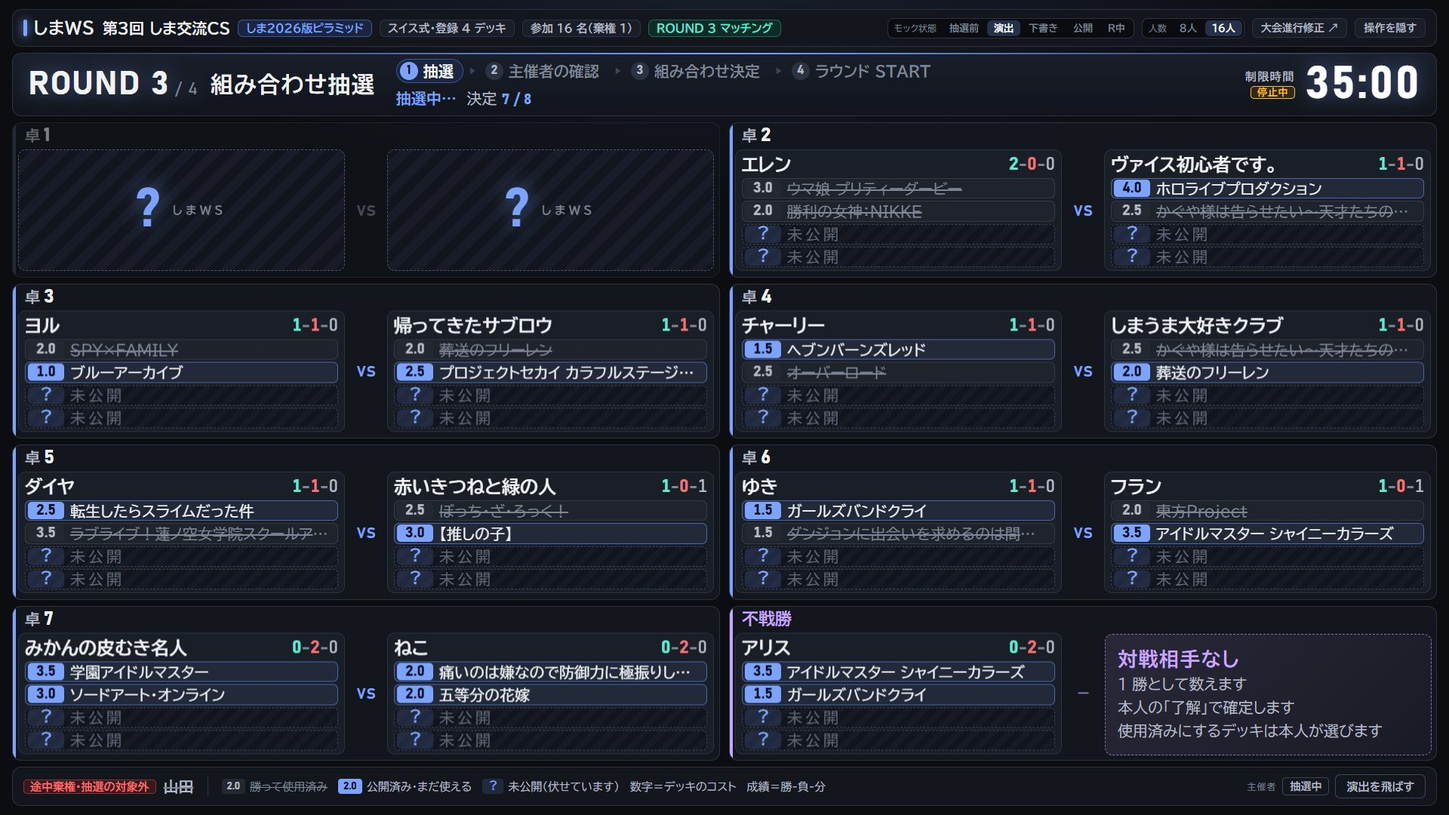
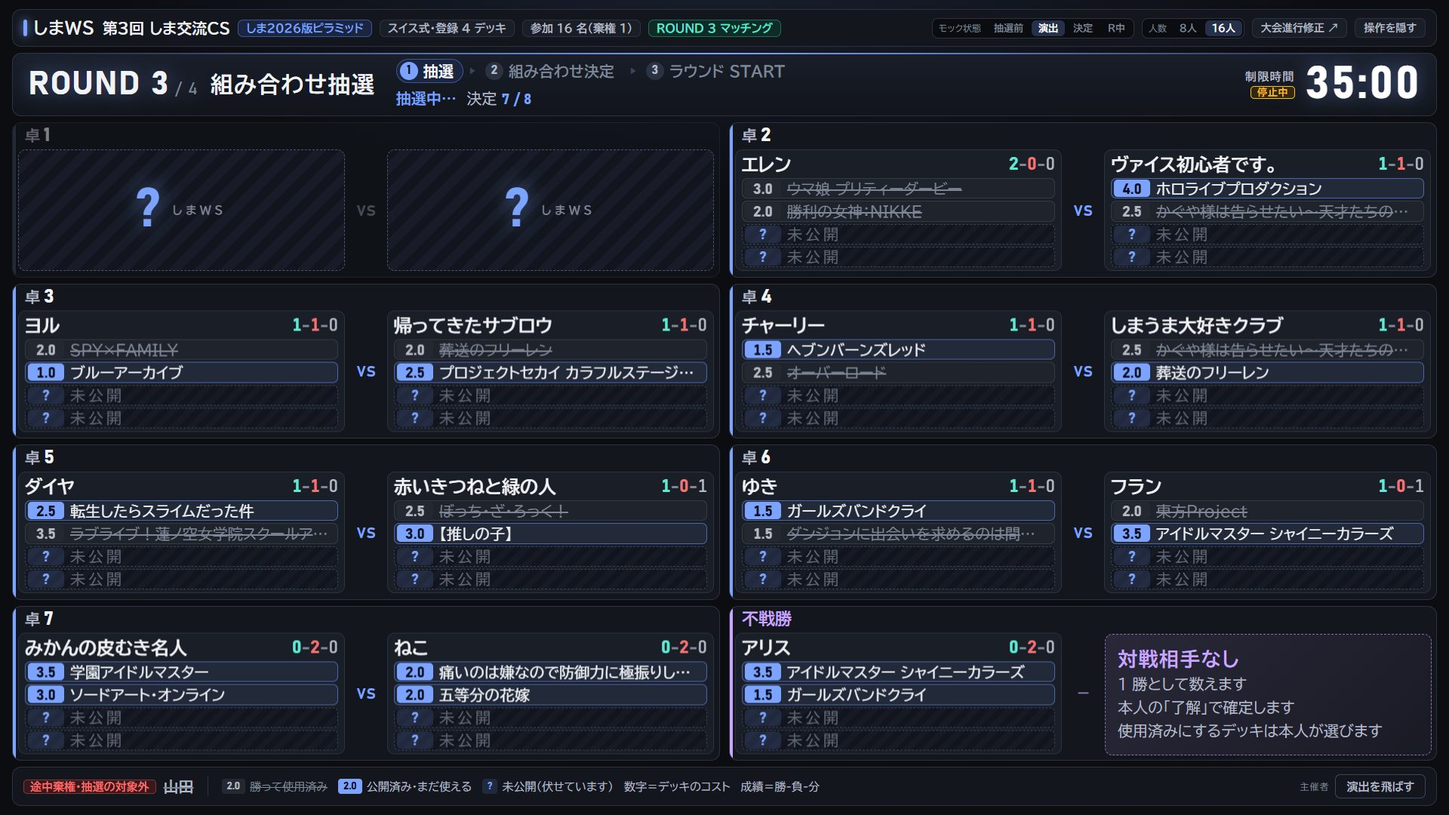
J案改良版を更新（下書きなし・修正・再戦表示）

diff --git a/r3/final/index.html b/r3/final/index.html
@@ -148,7 +148,10 @@ body.inround #round{display:grid;animation:fadein .35s both}
 .rec .w{color:var(--ok)} .rec .l{color:var(--danger)} .rec .o{color:var(--sub);font-weight:400}
 .dk{display:flex;align-items:center;gap:8px;min-width:0;min-height:0;padding:0 8px 0 3px;border-radius:7px;border:1px solid var(--edge2);
   background:#141925;font-size:var(--fdk);line-height:1.3}
-.dk .b{flex:none;width:var(--bw);height:calc(var(--fdk) + 3px);line-height:calc(var(--fdk) + 3px);text-align:center;border-radius:5px;
+/* コストの数字は、字の高さ（数字の上端〜下端）で上下中央にそろえる。行の中央＝タイトル名の取り消し線の高さ */
+.dk .b i{display:block;font-style:normal;line-height:1;text-box:trim-both cap alphabetic}
+@supports not (text-box:trim-both cap alphabetic){.dk .b i{padding-top:.12em}}
+.dk .b{flex:none;width:var(--bw);height:calc(var(--fdk) + 3px);display:flex;align-items:center;justify-content:center;border-radius:5px;
   font-family:var(--num);font-variant-numeric:tabular-nums;font-size:var(--fdk);font-weight:700;white-space:nowrap}
 .dk .t{flex:1}
 /* 8 人のときは行が高いので、タイトル名を 2 行まで折り返す */
@@ -192,9 +195,42 @@ body.inround #round{display:grid;animation:fadein .35s both}
 .legend i{font-style:normal;font-family:var(--num);font-size:14px;font-weight:700;padding:0 7px;border-radius:4px;line-height:20px}
 .legend s{color:var(--mute)}
 /* 組み合わせの状態（主催者の操作欄に 1 か所だけ） */
-.stt{font-size:14px;font-weight:700;line-height:22px;padding:0 9px;border-radius:5px;border:1px solid var(--edge2);color:var(--sub)}
-.stt.draft{color:var(--wait);border-color:var(--wait);border-style:dashed;background:var(--wait-bg)}
-.stt.pub{color:var(--ok);border-color:var(--ok);background:var(--ok-bg)}
+/* 再戦（過去に対戦した組み合わせ）になった卓 */
+.tb.re{border-color:var(--danger);background:linear-gradient(180deg,rgba(248,113,113,.13),var(--surface) 46px)}
+.tb.re::before,.tb.re.on::before{background:var(--danger)}
+.tb.re .vs{color:var(--danger)}
+.retag{font-size:20px;font-weight:700;line-height:26px;padding:0 12px;border-radius:6px;border:1px solid var(--danger);color:var(--danger);background:var(--danger-bg);letter-spacing:.1em}
+/* ---------- 組み合わせの修正（主催者用のパネル。会場の盤の上に重ねる） ---------- */
+#edit{position:absolute;inset:0;display:none;align-items:center;justify-content:center;background:rgba(3,5,9,.74);z-index:45}
+#edit.on{display:flex}
+.edbox{width:1240px;background:#161a23;border:1px solid var(--wait);border-radius:14px;padding:18px 24px 20px;box-shadow:0 20px 60px rgba(0,0,0,.6);
+  display:flex;flex-direction:column;gap:10px}
+.ed-h{display:flex;align-items:center;gap:16px;white-space:nowrap}
+.ed-h h3{font-size:28px;font-weight:700;line-height:1.3}
+.ed-help{font-size:20px;line-height:1.5;color:var(--sub);white-space:nowrap}
+.ed-help b{color:var(--wait)}
+.ed-list{display:grid;gap:6px}
+.ed-row{display:grid;grid-template-columns:104px minmax(0,1fr) 44px minmax(0,1fr) 150px;align-items:center;column-gap:10px;padding:5px 10px;
+  border:1px solid var(--edge);border-radius:9px;background:var(--card);white-space:nowrap}
+.ed-row.chg{border-color:var(--wait)}
+.ed-row.re{border-color:var(--danger);background:var(--danger-bg)}
+.ed-no{font-size:20px;font-weight:700;color:var(--sub);line-height:1}
+.ed-no b{font-family:var(--num);font-size:26px;color:var(--ink);margin-left:5px}
+.ed-row.bye .ed-no{color:var(--ack)}
+.ed-p{height:44px;min-width:0;display:flex;align-items:center;justify-content:space-between;gap:12px;padding:0 14px;border-radius:8px;border:1px solid var(--edge2);
+  background:#141925;font-size:22px;font-weight:700;cursor:pointer;white-space:nowrap}
+.ed-p:hover{border-color:var(--accent)}
+.ed-p.moved{border-color:var(--wait);color:var(--wait)}
+.ed-p.sel{border-color:var(--wait);background:var(--wait-bg);box-shadow:0 0 0 2px rgba(251,191,36,.5)}
+.ed-p .rec{font-size:20px;line-height:1}
+.ed-vs{font-family:var(--num);font-size:20px;font-weight:700;color:var(--mute);text-align:center}
+.ed-none{font-size:20px;color:var(--mute);padding-left:14px}
+.ed-flag{display:flex;gap:10px;justify-content:flex-end;font-size:20px;font-weight:700}
+.ed-flag .r,.ed-sum .r{color:var(--danger)} .ed-flag .c{color:var(--wait)}
+.ed-f{display:flex;align-items:center;justify-content:space-between;gap:12px;white-space:nowrap;margin-top:4px}
+.ed-sum{font-size:20px;color:var(--sub)}
+.ed-btns{display:flex;gap:8px}
+.ed-f .btn{height:40px;font-size:18px;padding:0 18px}
 .legend i.used{background:#242831;color:var(--sub)} .legend i.open{background:var(--accent);color:#0b1020} .legend i.secret{background:rgba(124,163,255,.14);color:var(--accent)}
 .f-r{display:flex;align-items:center;gap:8px;flex:none}
 
@@ -336,6 +372,7 @@ body.still .tile.pop .dk,body.still .tb.hit,body.still.inround #round{animation:
   </main>
 
   <div id="pop"><div class="popbox" id="popbox"></div></div>
+  <div id="edit"><div class="edbox box" id="edbox"></div></div>
   <div id="toast"></div>
 </div>
 <script>
@@ -350,13 +387,16 @@ const POOL=["アイドルマスター シャイニーカラーズ","痛いのは
   "転生したらスライムだった件","東方Project","ブルーアーカイブ","プロジェクトセカイ カラフルステージ！ feat. 初音ミク",
   "ヘブンバーンズレッド","ぼっち・ざ・ろっく！","ホロライブプロダクション","ラブライブ！蓮ノ空女学院スクールアイドルクラブ"];
 const COST=[3.5,2,3,2.5,3,2.5,3.5,1.5,2,2,2,2,2,3,1.5,2.5,2.5,2,1,2.5,1.5,2.5,4,3.5];
-const OFF=[0,7,13,20], ROUNDS=4, DONE=2;           /* 2 ラウンド終了 → ROUND 3 の抽選 */
-const STATES=["before","drawing","drafted","published","round"];
-const SLAB={before:"抽選前",drawing:"演出",drafted:"下書き",published:"公開",round:"R中"};
+const OFF=[0,7,13,20], ROUNDS=4;
+let DONE=2;                                        /* 終了したラウンド数。はじめは 2 ラウンド終了 → ROUND 3 の抽選 */
+/* 流れ: ラウンド中 →（ラウンド終了）→ 抽選前 → 抽選（演出）→ 組み合わせ決定 →（START）→ ラウンド中 */
+const STATES=["before","drawing","decided","round"];
+const SLAB={before:"抽選前",drawing:"演出",decided:"決定",round:"R中"};
 
 const qs=new URLSearchParams(location.search);
 let N=qs.get("players")==="16"?16:8;
-let ST=STATES.includes(qs.get("state"))?qs.get("state"):"before";
+const ST0=qs.get("state");
+let ST=(ST0==="drafted"||ST0==="published")?"decided":STATES.includes(ST0)?ST0:"before";   /* 旧 drafted／published は decided に寄せる */
 const SEED=parseInt(qs.get("seed")||"0",10)||0;
 const STOP=parseInt(qs.get("stop")||"0",10)||0;    /* 撮影用: この卓数がめくれたところで演出を止める */
 const REDUCED=qs.get("motion")==="0"||(qs.get("motion")!=="1"&&matchMedia("(prefers-reduced-motion: reduce)").matches);
@@ -413,6 +453,8 @@ function preset(n){
   C=calc();
 }
 const cur=()=>T.rounds[DONE]||null;
+/* 終了したラウンドですでに対戦した 2 人か（再戦の判定） */
+const metBefore=(a,b)=>T.rounds.slice(0,DONE).some(R=>R.matches.some(m=>(m.a===a&&m.b===b)||(m.a===b&&m.b===a)));
 const activeIds=()=>T.players.filter(p=>!isDropped(p,DONE)).map(p=>p.id);
 const droppedPs=()=>T.players.filter(p=>isDropped(p,DONE));
 function newDraft(){
@@ -445,7 +487,7 @@ const setPos=(el,p)=>{el.style.transform=`translate(${p.x}px,${p.y}px)`};
 function dkHtml(d,ds,j){
   /* 札の左の数字はデッキのコスト。状態は色で分ける（取り消し線＝使用済／青＝使用可／斜線＝未公開）。未公開はコストも伏せる */
   const sec=ds.st==="secret";
-  return`<span class="dk ${ds.st}" style="--i:${j}"><span class="b">${sec?"？":d.base.toFixed(1)}</span><span class="t ell">${sec?"未公開":esc(d.title)}</span></span>`;
+  return`<span class="dk ${ds.st}" style="--i:${j}"><span class="b"><i>${sec?"?":d.base.toFixed(1)}</i></span><span class="t ell">${sec?"未公開":esc(d.title)}</span></span>`;
 }
 const recHtml=x=>`<span class="rec num" title="勝-負-分"><b class="w">${x.w}</b>-<b class="l">${x.l}</b>-<b class="o">${x.d}</b></span>`;
 function buildTiles(){
@@ -470,9 +512,9 @@ function buildTiles(){
 /* 卓の枠。cls: ghost＝まだめくっていない／on＝組み合わせが出た。下書きか公開済みかは卓には出さない（主催者の操作欄に 1 か所だけ） */
 function buildFrames(cls){
   const cards=cardList();
-  $("#frames").innerHTML=cards.map((c,ci)=>{const p=G.cardPos(ci),vx=G.PX+G.tw;
-    return`<div class="tb box ${cls}${c.bye?" bye":""}" style="left:${p.x}px;top:${p.y}px;width:${G.cw}px;height:${G.ch}px">
-      <div class="hd" style="height:${G.HD}px">${c.bye?`<span class="no">不戦勝</span>`:`<span class="no">卓<b>${c.i+1}</b></span>`}</div>
+  $("#frames").innerHTML=cards.map((c,ci)=>{const p=G.cardPos(ci),vx=G.PX+G.tw,re=cls==="on"&&!c.bye&&metBefore(c.ids[0],c.ids[1]);
+    return`<div class="tb box ${cls}${c.bye?" bye":""}${re?" re":""}" style="left:${p.x}px;top:${p.y}px;width:${G.cw}px;height:${G.ch}px">
+      <div class="hd" style="height:${G.HD}px">${c.bye?`<span class="no">不戦勝</span>`:`<span class="no">卓<b>${c.i+1}</b></span>`}${re?`<span class="retag">再戦</span>`:""}</div>
       <span class="vs" style="left:${vx}px;top:${G.top}px;width:${G.VSW}px;height:${G.th}px">${c.bye?"－":"VS"}</span>
       ${c.bye?`<div class="byeinfo box" style="left:${vx+G.VSW}px;top:${G.top}px;width:${G.tw}px;height:${G.th}px"><h4>対戦相手なし</h4><p>1 勝として数えます</p><p>本人の「了解」で確定します</p><p>使用済みにするデッキは本人が選びます</p></div>`:""}
     </div>`}).join("");
@@ -488,7 +530,7 @@ function cancelAnim(){timers.forEach(clearTimeout);timers=[]}
 let revealed=0;
 /* 演出なしで、いまの段階の絵をそのまま出す */
 function show(){
-  cancelAnim();board.classList.add("noanim");board.dataset.phase=phase==="round"?"published":phase;
+  cancelAnim();board.classList.add("noanim");board.dataset.phase=phase==="round"?"decided":phase;
   const act=activeIds();
   act.forEach(id=>{const t=tiles[id];t.classList.remove("down","pop","pre");t.style.zIndex="";t.querySelector(".flip").style.transitionDelay=""});
   if(phase==="before"){$("#frames").innerHTML="";frameEls=[];act.forEach((id,i)=>setPos(tiles[id],G.pre(i)))}
@@ -501,7 +543,7 @@ function show(){
 function draw(){
   cancelAnim();
   const seed=newDraft();
-  if(REDUCED){phase="drafted";show();toast("組み合わせを抽選しました");return}
+  if(REDUCED){phase="decided";show();toast(`ROUND ${DONE+1} の組み合わせが決定しました`);return}
   phase="drawing";revealed=0;board.dataset.phase="drawing";
   const cards=buildFrames("ghost"),act=activeIds(),rnd=rng(seed^0x9e3779b9);
   window.__t0=performance.now();
@@ -525,7 +567,7 @@ function draw(){
     later(at+620,()=>{setFrame(frameEls[ci],"on");frameEls[ci].classList.add("hit");revealed++;ui();if(STOP&&revealed===STOP)cancelAnim()});
     t+=REV;
   });
-  later(t+150,()=>{phase="drafted";board.dataset.phase="drafted";ui()});
+  later(t+150,()=>{phase="decided";board.dataset.phase="decided";ui()});
 }
 /* 札をめくる。表が見えはじめる頃（半回転）にデッキ 4 個を順に出す */
 function flipUp(id){const t=tiles[id];t.style.zIndex="";t.classList.add("pre");t.classList.remove("down");
@@ -537,26 +579,22 @@ function ui(){
   $("#chipN").textContent=`参加 ${T.n} 名`+(dp.length?`（棄権 ${dp.length}）`:"");
   $("#chipR").textContent=phase==="round"?`ROUND ${DONE+1} / ${ROUNDS}`:`ROUND ${DONE+1} マッチング`;
   $("#hR").innerHTML=`ROUND ${DONE+1}<small> / ${ROUNDS}</small>`;
-  const stepNo={before:0,drawing:0,drafted:1,published:3,round:4}[phase];
-  $("#steps").innerHTML=["抽選","主催者の確認","組み合わせ決定","ラウンド START"].map((s,i)=>
+  const stepNo={before:0,drawing:0,decided:2,round:3}[phase];
+  $("#steps").innerHTML=["抽選","組み合わせ決定","ラウンド START"].map((s,i)=>
     `${i?'<span class="ar">▶</span>':""}<span class="st${i<stepNo?" done":i===stepNo?" on":""}"><b>${i<stepNo?"✓":i+1}</b>${s}</span>`).join("");
   const m=$("#msg");
-  m.className="msg "+({drawing:"draw",drafted:"draft",published:"pub"}[phase]||"");
+  m.className="msg "+({drawing:"draw",decided:"pub"}[phase]||"");
   m.innerHTML=phase==="before"?`<b>抽選前</b>　｜　${cards} 卓ぶんの組み合わせを、これから抽選します`:
     phase==="drawing"?`<b>抽選中…</b>　決定 <b class="num">${revealed} / ${cards}</b>`:
-    phase==="drafted"?`<b>抽選結果</b>　｜　主催者が確認しています。決定までお待ちください`:
     `<b>組み合わせ決定！</b>　自分の卓へ移動してください　｜　START でラウンド開始`;
   $("#footL").innerHTML=(dp.length?`<span class="drop"><span class="tag out">途中棄権・抽選の対象外</span>${dp.map(p=>`<span class="nm">${esc(p.name)}</span>`).join("")}</span><i class="sep"></i>`:"")+
-    `<span class="legend"><span><i class="used">2.0</i><s>勝って使用済み</s></span><span><i class="open">2.0</i>公開済み・まだ使える</span><span><i class="secret">？</i>未公開（伏せています）</span><span>数字＝デッキのコスト</span><span>成績＝勝-負-分</span></span>`;
+    `<span class="legend"><span><i class="used">2.0</i><s>勝って使用済み</s></span><span><i class="open">2.0</i>公開済み・まだ使える</span><span><i class="secret">?</i>未公開（伏せています）</span><span>数字＝デッキのコスト</span><span>成績＝勝-負-分</span></span>`;
   if(armed)disarm();
-  /* 組み合わせの状態は、ここ（主催者の操作欄）に 1 か所だけ出す */
-  const stt=phase==="before"?`<span class="stt" id="stt">抽選前</span>`:phase==="drawing"?`<span class="stt" id="stt">抽選中</span>`:
-    phase==="drafted"?`<span class="stt draft" id="stt">下書き・参加者の端末には未公開</span>`:`<span class="stt pub" id="stt">参加者の端末に公開済み</span>`;
-  $("#footR").innerHTML=`<span class="who">主催者</span>`+stt+(
+  /* 下書きの段階はない。抽選が終わるとそのまま決定で、直すときは「組み合わせを修正」（主催者用のパネル）を使う */
+  $("#footR").innerHTML=`<span class="who">主催者</span>`+(
     phase==="before"?`<button class="btn pri" data-act="draw">抽選する</button>`:
     phase==="drawing"?`<button class="btn" data-act="skip">演出を飛ばす</button>`:
-    phase==="drafted"?`<button class="btn" data-act="draw">再抽選</button><button class="btn pri" data-act="publish" data-arm="1">決定して公開</button>`:
-    `<button class="btn pri" data-act="start">ラウンド START</button>`);
+    `<button class="btn" data-act="edit">組み合わせを修正</button><button class="btn pri" data-act="start">ラウンド START</button>`);
   document.body.classList.toggle("inround",phase==="round");
   document.querySelectorAll("#segS button").forEach(b=>b.classList.toggle("on",b.dataset.v===phase));
   document.querySelectorAll("#segN button").forEach(b=>b.classList.toggle("on",+b.dataset.v===N));
@@ -595,7 +633,7 @@ function renderRound(){
     <div class="tgrid ${cmp?"cmp":"big"}" style="grid-template-rows:repeat(${k},minmax(0,1fr))">
       ${R.matches.map((m,i)=>`<div class="tc box playing" data-pop="t:${i}"><div class="sd"><span class="no">卓<b>${i+1}</b></span><span class="pill playing">対戦中</span></div><div class="bd">${row(P[m.a])}${row(P[m.b])}</div></div>`).join("")}
       ${R.bye?`<div class="tc box ack" data-pop="p:${R.bye.p}"><div class="sd"><span class="no">不戦勝</span><span class="pill ack">了解待ち</span></div><div class="bd"><span class="pn"><i class="dot"></i><span class="nm ell">${esc(P[R.bye.p].name)}</span></span><span class="it ack">不戦勝</span><span class="tnote ell">本人の了解で確定（使用済みにするデッキを選択）</span></div></div>`:""}</div>
-    <div class="strip org"><span class="who">主催者</span><button class="btn" disabled>ラウンド終了</button><span class="hint">全卓の確定後に押せます（残り ${k} 卓）</span></div></div>`;
+    <div class="strip org"><span class="who">主催者</span><button class="btn" data-act="endround" data-arm="1">ラウンド終了</button><span class="hint">${DONE+1<ROUNDS?"押すと次のラウンドの抽選前へ":"最終ラウンドです"}</span></div></div>`;
   let rank=0;
   $("#rRight").innerHTML=`<div class="ph"><h2>順位表<small>ROUND ${DONE} 終了時点　｜　並び: 勝ち数 → 勝率 → 合計コスト(低) → OMW%　｜　簡易表示（本番は I 案の形）</small></h2></div>
     <div class="rh"><span>順位</span><span>参加者</span><span>勝-負-分</span><span>登録デッキ 1</span><span>2</span><span>3</span><span>4</span></div>
@@ -625,16 +663,73 @@ function toast(s){const t=$("#toast");t.textContent=s;t.classList.add("on");clea
 function act(a){
   if(a==="close")return closePop();
   if(a==="draw")return draw();
-  if(a==="skip"){phase="drafted";show();return}
-  if(a==="publish"){setStatus("playing");phase="published";show();
-    if(!REDUCED)frameEls.forEach((f,i)=>{f.style.animationDelay=(i*45)+"ms";f.classList.add("hit")});
-    toast(`ROUND ${DONE+1} の組み合わせが決定しました`);return}
+  if(a==="skip"){phase="decided";show();return}
   if(a==="start"){phase="round";tmSet(2100,2100,true);renderRound();ui();return}
+  if(a==="endround")return endRound();
+  if(a==="edit")return openEdit();
+  if(a==="ed-close")return closeEdit();
+  if(a==="ed-reset"){ED.slots=ED.base.map(x=>x.slice());ED.sel=null;return renderEdit()}
+  if(a==="ed-apply")return applyEdit();
 }
+/* ラウンド終了: いまのラウンドを確定して、次のラウンドの抽選前へ（モックでは未報告の卓を仮の結果で確定する） */
+function endRound(){
+  if(DONE+1>=ROUNDS){toast("最終ラウンドです（モックの通しはここまで）");return}
+  setStatus("done");DONE++;C=calc();
+  phase="before";document.body.classList.remove("inround");   /* 盤の寸法を測るので、先にマッチング画面へ戻す */
+  buildTiles();tmSet(2100,2100,false);show();
+  toast(`ROUND ${DONE} を終了しました。ROUND ${DONE+1} の抽選前です`);
+}
+
+/* ===== 組み合わせの修正（主催者用のパネル） ===== */
+let ED=null;   /* 作業用の並び。slots[卓] = [左, 右]（最後が不戦勝なら [本人]）。適用するまで会場の盤は変えない */
+const curSlots=()=>cardList().map(c=>c.ids.slice());
+function openEdit(){if(phase!=="decided")return;ED={slots:curSlots(),base:curSlots(),sel:null};renderEdit();$("#edit").classList.add("on")}
+function closeEdit(){$("#edit").classList.remove("on");ED=null}
+function renderEdit(){
+  const cards=cardList(),P=T.players;let nre=0,nch=0;
+  const btn=(id,ci,s)=>`<button class="ed-p${ED.sel===id?" sel":""}${ED.base[ci][s]!==id?" moved":""}" data-ed="${id}"><span>${esc(P[id].name)}</span>${recHtml(C.s[id])}</button>`;
+  const rows=ED.slots.map((ids,ci)=>{const bye=cards[ci].bye,re=!bye&&metBefore(ids[0],ids[1]),ch=ids.some((id,s)=>ED.base[ci][s]!==id);
+    if(re)nre++;if(ch)nch++;
+    return`<div class="ed-row${bye?" bye":""}${ch?" chg":""}${re?" re":""}"><span class="ed-no">${bye?"不戦勝":`卓<b>${ci+1}</b>`}</span>${btn(ids[0],ci,0)}<span class="ed-vs">${bye?"":"VS"}</span>`+
+      (bye?`<span class="ed-none">対戦相手なし</span>`:btn(ids[1],ci,1))+`<span class="ed-flag">${re?`<span class="r">再戦</span>`:""}${ch?`<span class="c">変更</span>`:""}</span></div>`}).join("");
+  const hasBye=cards.some(c=>c.bye);
+  $("#edbox").innerHTML=`<div class="ed-h"><h3>ROUND ${DONE+1}　組み合わせを修正</h3><span class="tag">主催者用・「適用」を押すまで会場の盤は変わりません</span></div>
+    <p class="ed-help">${ED.sel===null?`入れ替える 2 人を順に押します。${hasBye?"不戦勝の人と入れ替えると、不戦勝の人が替わります。":""}`:
+      `<b>${esc(P[ED.sel].name)}</b> と入れ替える人を押してください（同じ人をもう一度押すと選び直せます）`}</p>
+    <div class="ed-list">${rows}</div>
+    <div class="ed-f"><span class="ed-sum">変更 <b class="num">${nch}</b> 卓　｜　${nre?`<b class="r">再戦が ${nre} 卓あります（このまま適用もできます）</b>`:"再戦なし"}</span>
+      <span class="ed-btns"><button class="btn" data-act="ed-reset"${nch?"":" disabled"}>元に戻す</button><button class="btn" data-act="ed-close">やめる（Esc）</button><button class="btn pri" data-act="ed-apply"${nch?"":" disabled"}>この組み合わせを適用</button></span></div>`;
+}
+function edPick(id){
+  if(ED.sel===null)ED.sel=id;
+  else if(ED.sel===id)ED.sel=null;
+  else{const at=v=>{for(let c=0;c<ED.slots.length;c++){const s=ED.slots[c].indexOf(v);if(s>=0)return[c,s]}};
+    const[c1,s1]=at(ED.sel),[c2,s2]=at(id);ED.slots[c1][s1]=id;ED.slots[c2][s2]=ED.sel;ED.sel=null}
+  renderEdit();
+}
+/* 適用: 会場の盤にすぐ反映する（札は新しい席へ動き、変わった卓だけ軽く光る） */
+function applyEdit(){
+  const R=cur(),cards=cardList(),changed=[];
+  ED.slots.forEach((ids,ci)=>{if(ids.some((id,s)=>ED.base[ci][s]!==id))changed.push(ci);
+    if(cards[ci].bye)R.bye.p=ids[0];else{R.matches[ci].a=ids[0];R.matches[ci].b=ids[1]}});
+  closeEdit();
+  const cs=buildFrames("on");cs.forEach((c,ci)=>c.ids.forEach((id,s)=>setPos(tiles[id],G.slot(ci,s))));
+  if(!REDUCED)changed.forEach(ci=>frameEls[ci].classList.add("hit"));
+  ui();toast(`組み合わせを修正しました（${changed.length} 卓）`);
+}
+/* サンプル用: 入れ替えると再戦が 1 卓だけできる 2 人を探す（README と撮影で使う） */
+window.__rematchHint=()=>{const cs=cardList(),P=T.players,lab=c=>c.bye?"不戦勝":"卓 "+(c.i+1);let alt=null;
+  for(let xi=0;xi<cs.length;xi++)for(let yi=xi+1;yi<cs.length;yi++)for(let i=cs[xi].ids.length-1;i>=0;i--)for(let j=cs[yi].ids.length-1;j>=0;j--){
+    const sl=cs.map(c=>c.ids.slice()),a=sl[xi][i],b=sl[yi][j];sl[xi][i]=b;sl[yi][j]=a;      /* a と b を入れ替えた並び */
+    const re=sl.filter(s=>s.length===2&&metBefore(s[0],s[1]));if(!re.length)continue;
+    const h={a,b,names:[P[a].name,P[b].name],tables:[lab(cs[xi]),lab(cs[yi])],count:re.length,rematch:re.map(s=>P[s[0]].name+" × "+P[s[1]].name)};
+    if(re.length===1)return h;alt=alt||h}
+  return alt};
 function setStatus(s){const R=cur();R.matches.forEach(m=>m.status=s);if(R.bye)R.bye.status=s==="playing"?"ack":s}
 let armed=null;
 function disarm(){if(!armed)return;clearTimeout(armed._t);armed.textContent=armed.dataset.label;armed.classList.remove("armed");armed=null}
 document.addEventListener("click",e=>{
+  const d=e.target.closest("[data-ed]");if(d&&ED)return edPick(+d.dataset.ed);
   const b=e.target.closest("[data-act]");
   if(b){if(b.disabled)return;
     if(b.dataset.arm&&armed!==b){if(armed)disarm();armed=b;b.dataset.label=b.textContent;b.textContent="もう一度押して確定";b.classList.add("armed");b._t=setTimeout(disarm,3500);return}
@@ -647,7 +742,7 @@ document.addEventListener("click",e=>{
   const p=e.target.closest("[data-pop]");if(p)openPop(p.dataset.pop);
 });
 document.addEventListener("keydown",e=>{
-  if(e.key==="Escape")closePop();
+  if(e.key==="Escape"){closePop();if(ED)closeEdit()}
   if(e.target.id==="tm"){if(e.key==="Enter"){e.target.blur();tmToggle()}return}
   if(e.key==="h"||e.key==="H")toggleOrg();
 });
@@ -656,9 +751,11 @@ $("#bHide").onclick=toggleOrg;
 $("#bFix").onclick=e=>{e.preventDefault();toast("「大会進行修正」タブを開きます（モックでは移動しません）")};
 
 function load(){
-  cancelAnim();closePop();drawNo=0;preset(N);buildTiles();
+  cancelAnim();closePop();if(ED)closeEdit();drawNo=0;DONE=2;
+  document.body.classList.remove("inround");                   /* 盤の寸法を測るので、先にマッチング画面を出す */
+  preset(N);buildTiles();
   phase=ST==="drawing"?"before":ST;
-  if(phase!=="before"){newDraft();if(phase!=="drafted")setStatus("playing")}
+  if(phase!=="before")newDraft();
   tmSet(2100,2100,phase==="round");
   if(phase==="round")renderRound();
   show();
@@ -692,7 +789,8 @@ window.__check=function(loose){
     if(loose&&inTile&&!e.classList.contains("ell"))return;
     const isEll=e.classList.contains("ell");
     if(ow>1||(isEll&&oh>1)){ if(isEll){ if(e.title===e.textContent&&e.closest("[data-pop]"))out.ell.push(txt(e));else out.bad.push("ellipsis without full text: "+name(e)) } else out.bad.push(`overflow-x ${ow}px: ${name(e)} "${txt(e)}"`)}
-    if(oh>1&&!isEll)out.bad.push(`overflow-y ${oh}px: ${name(e)} "${txt(e)}"`);
+    /* コストの数字（.dk .b i）は text-box で字の高さに切りそろえた箱なので、行の余白ぶん scrollHeight が大きく出る。外側の札（.dk .b）で見る */
+    if(oh>1&&!isEll&&!e.matches(".dk .b i"))out.bad.push(`overflow-y ${oh}px: ${name(e)} "${txt(e)}"`);
     if(loose&&(inTile||e.classList.contains("tile")))return;
     const r=e.getBoundingClientRect(),box=e.parentElement.closest(".box,.panel,.top,#stage"),br=box.getBoundingClientRect(),t=0.6;
     if(r.width&&r.height&&(r.left<br.left-t||r.right>br.right+t||r.top<br.top-t||r.bottom>br.bottom+t))out.bad.push(`outside ${name(box)}: ${name(e)} "${txt(e)}"`);
@@ -703,7 +801,7 @@ window.__check=function(loose){
     for(let i=0;i<rs.length;i++)for(let j=i+1;j<rs.length;j++){const a=rs[i][1],b=rs[j][1];
       if(a.left<b.right-1&&b.left<a.right-1&&a.top<b.bottom-1&&b.top<a.bottom-1)out.bad.push(`overlap: ${name(rs[i][0])} "${txt(rs[i][0])}" × ${name(rs[j][0])} "${txt(rs[j][0])}"`)}
   }
-  stage.querySelectorAll(".tile .nm,.tile .rec,.dk,.dk .t,.dk .b,.hd .no,.tb .vs,.pill,.byeinfo h4,.byeinfo p,#note li,.drop,.drop .nm,.msg,.steps .st,#pre span,.tc .nm,.tc .no,.tc .it,.rr>span,.rr .nm,.cnt").forEach(e=>{
+  stage.querySelectorAll(".tile .nm,.tile .rec,.dk,.dk .t,.dk .b,.dk .b i,.hd .no,.retag,.tb .vs,.pill,.byeinfo h4,.ed-p,.ed-p .rec,.ed-no,.ed-vs,.ed-none,.ed-flag,.ed-help,.ed-sum,.byeinfo p,#note li,.drop,.drop .nm,.msg,.steps .st,#pre span,.tc .nm,.tc .no,.tc .it,.rr>span,.rr .nm,.cnt").forEach(e=>{
     if(!e.offsetParent)return;const f=parseFloat(getComputedStyle(e).fontSize);if(f<20)out.small.push(name(e)+" "+f+"px")});
   return out;
 };

diff --git a/r3/index.html b/r3/index.html
@@ -1,1 +1,1 @@
-<!doctype html><html lang="ja"><head><meta charset="utf-8"><meta name="robots" content="noindex,nofollow,noarchive"><meta name="viewport" content="width=device-width,initial-scale=1"><title>大会ダッシュボード 第3回</title><style>body{font:15px/1.6 system-ui,sans-serif;background:#16181d;color:#e7e9ee;margin:0;padding:20px}h1{font-size:22px;margin:0 0 6px}h2{font-size:20px;margin:26px 0 4px;border-top:1px solid #333;padding-top:14px}h3{font-size:16px;margin:14px 0 4px}nav{position:sticky;top:0;background:#16181dee;padding:8px 0;z-index:9}nav button{background:#2b3140;color:#e7e9ee;border:1px solid #445;border-radius:6px;padding:6px 12px;margin-right:6px;cursor:pointer}nav button.on{background:#4c7dff;border-color:#4c7dff}.m{color:#9aa3b5;font-size:13px}.g{display:grid;gap:8px}figure{margin:0}figure img{width:100%;border:1px solid #333;border-radius:4px;cursor:zoom-in}figcaption{font-size:13px;color:#9aa3b5}.na{border:1px dashed #444;border-radius:4px;padding:30px;text-align:center;color:#777}a{color:#8fb0ff}#lb{position:fixed;inset:0;background:#000d;display:none;align-items:center;justify-content:center;z-index:20}#lb img{max-width:98vw;max-height:96vh}</style></head><body><h1>大会ダッシュボード 第3回（統合見本＋マッチング演出）</h1><div class="m"><a href="../">第1回（A〜E）</a> ・ <a href="../r2/">第2回（F〜I）</a> ／ 画像はクリックで拡大。演出は「動く見本」で実際に動かして見てください。</div><nav><span class="m">人数: </span><button class="on" data-v="8">8人</button><button data-v="16">16人</button></nav><h2>統合見本（ラウンド中・事後コスト抽選・事後コスト発表）</h2><div class="m">決まった組み合わせ（ラウンド中＝H案の上部・タイマー・対戦卓＋I案の順位表／事後コスト抽選＝H案の見た目・スロット→上から順に確定する演出／事後コスト発表＝F案の配置にH案の色）を1つにまとめたもの。 <a href="integrated/index.html?state=round" target="_blank">動く見本: ラウンド中</a> ・ <a href="integrated/index.html?state=draw&players=16" target="_blank">事後コスト抽選（16人・演出あり）</a> ・ <a href="integrated/index.html?state=announce&players=16" target="_blank">事後コスト発表</a></div><div class="g" style="grid-template-columns:repeat(3,1fr)"><figure data-v="8"><img src="integrated/shot-round.jpg" loading="lazy" alt="ラウンド中・8人"><figcaption>ラウンド中・8人</figcaption></figure><figure data-v="16"><img src="integrated/shot16-round.jpg" loading="lazy" alt="ラウンド中・16人"><figcaption>ラウンド中・16人</figcaption></figure><figure data-v="8"><img src="integrated/shot-draw.jpg" loading="lazy" alt="事後コスト抽選（確定後）・8人"><figcaption>事後コスト抽選（確定後）・8人</figcaption></figure><figure data-v="16"><img src="integrated/shot16-draw.jpg" loading="lazy" alt="事後コスト抽選（確定後）・16人"><figcaption>事後コスト抽選（確定後）・16人</figcaption></figure><figure data-v="8"><img src="integrated/shot-announce.jpg" loading="lazy" alt="事後コスト発表・8人"><figcaption>事後コスト発表・8人</figcaption></figure><figure data-v="16"><img src="integrated/shot16-announce.jpg" loading="lazy" alt="事後コスト発表・16人"><figcaption>事後コスト発表・16人</figcaption></figure></div><h3>事後コスト抽選の演出（16人）</h3><div class="g" style="grid-template-columns:repeat(3,1fr)"><figure data-v="all"><img src="integrated/f1.jpg" loading="lazy" alt="回転中"><figcaption>回転中</figcaption></figure><figure data-v="all"><img src="integrated/f2.jpg" loading="lazy" alt="上から確定していく途中"><figcaption>上から確定していく途中</figcaption></figure><figure data-v="all"><img src="integrated/f3.jpg" loading="lazy" alt="全行確定"><figcaption>全行確定</figcaption></figure></div><h2>マッチング演出 J案の改良版（選定後）</h2><div class="m">J案の演出と色をもとに、L案の横並び・K案の卓番号の位置・L案のタイトル横のコストを取り入れ、「名前から卓を探す」欄と卓ごとの「下書き／公開」表示を外したもの。 <a href="final/index.html?players=16&state=before" target="_blank">動く見本（16人）</a> ・ <a href="final/index.html?players=8&state=before" target="_blank">動く見本（8人）</a></div><div class="g" style="grid-template-columns:repeat(3,1fr)"><figure data-v="8"><img src="final/shot-before.jpg" loading="lazy" alt="抽選前・8人"><figcaption>抽選前・8人</figcaption></figure><figure data-v="16"><img src="final/shot16-before.jpg" loading="lazy" alt="抽選前・16人"><figcaption>抽選前・16人</figcaption></figure><figure data-v="8"><img src="final/shot-drafted.jpg" loading="lazy" alt="抽選後（主催者の確認）・8人"><figcaption>抽選後（主催者の確認）・8人</figcaption></figure><figure data-v="16"><img src="final/shot16-drafted.jpg" loading="lazy" alt="抽選後（主催者の確認）・16人"><figcaption>抽選後（主催者の確認）・16人</figcaption></figure><figure data-v="8"><img src="final/shot-published.jpg" loading="lazy" alt="組み合わせ決定・8人"><figcaption>組み合わせ決定・8人</figcaption></figure><figure data-v="16"><img src="final/shot16-published.jpg" loading="lazy" alt="組み合わせ決定・16人"><figcaption>組み合わせ決定・16人</figcaption></figure><figure data-v="all"><img src="final/f1.jpg" loading="lazy" alt="演出中のコマ1（16人）"><figcaption>演出中のコマ1（16人）</figcaption></figure><figure data-v="all"><img src="final/f2.jpg" loading="lazy" alt="演出中のコマ2（16人）"><figcaption>演出中のコマ2（16人）</figcaption></figure><figure data-v="all"><img src="final/f3.jpg" loading="lazy" alt="演出中のコマ3（16人）"><figcaption>演出中のコマ3（16人）</figcaption></figure></div><h2>マッチング演出コンペ（J〜M）</h2><div class="m">順位表の代わりに、卓ごとの組み合わせを抽選する専用画面。名前・ここまでの成績・デッキの状態（使用済み・使用可・未公開）を見せ、START でラウンド中の画面へ移る。場面ごとに各案を横に並べています。</div><div class="m">動く見本: <a href="J/index.html?players=16&state=before" target="_blank">J案</a> ・ <a href="K/index.html?players=16&state=before" target="_blank">K案</a> ・ <a href="L/index.html?players=16&state=before" target="_blank">L案</a> ・ <a href="M/index.html?players=16&state=before" target="_blank">M案</a>（抽選ボタンから演出→再抽選→公開→START まで操作できます）</div><h3>抽選前</h3><div class="g" style="grid-template-columns:repeat(4,1fr)"><figure data-v="8"><img src="J/shot-before.jpg" loading="lazy" alt="J案"><figcaption>J案</figcaption></figure><figure data-v="16"><img src="J/shot16-before.jpg" loading="lazy" alt="J案"><figcaption>J案</figcaption></figure><figure data-v="8"><img src="K/shot-before.jpg" loading="lazy" alt="K案"><figcaption>K案</figcaption></figure><figure data-v="16"><img src="K/shot16-before.jpg" loading="lazy" alt="K案"><figcaption>K案</figcaption></figure><figure data-v="8"><img src="L/shot-before.jpg" loading="lazy" alt="L案"><figcaption>L案</figcaption></figure><figure data-v="16"><img src="L/shot16-before.jpg" loading="lazy" alt="L案"><figcaption>L案</figcaption></figure><figure data-v="8"><img src="M/shot-before.jpg" loading="lazy" alt="M案"><figcaption>M案</figcaption></figure><figure data-v="16"><img src="M/shot16-before.jpg" loading="lazy" alt="M案"><figcaption>M案</figcaption></figure></div><h3>下書き（抽選後）</h3><div class="g" style="grid-template-columns:repeat(4,1fr)"><figure data-v="8"><img src="J/shot-drafted.jpg" loading="lazy" alt="J案"><figcaption>J案</figcaption></figure><figure data-v="16"><img src="J/shot16-drafted.jpg" loading="lazy" alt="J案"><figcaption>J案</figcaption></figure><figure data-v="8"><img src="K/shot-drafted.jpg" loading="lazy" alt="K案"><figcaption>K案</figcaption></figure><figure data-v="16"><img src="K/shot16-drafted.jpg" loading="lazy" alt="K案"><figcaption>K案</figcaption></figure><figure data-v="8"><img src="L/shot-drafted.jpg" loading="lazy" alt="L案"><figcaption>L案</figcaption></figure><figure data-v="16"><img src="L/shot16-drafted.jpg" loading="lazy" alt="L案"><figcaption>L案</figcaption></figure><figure data-v="8"><img src="M/shot-drafted.jpg" loading="lazy" alt="M案"><figcaption>M案</figcaption></figure><figure data-v="16"><img src="M/shot16-drafted.jpg" loading="lazy" alt="M案"><figcaption>M案</figcaption></figure></div><h3>公開</h3><div class="g" style="grid-template-columns:repeat(4,1fr)"><figure data-v="8"><img src="J/shot-published.jpg" loading="lazy" alt="J案"><figcaption>J案</figcaption></figure><figure data-v="16"><img src="J/shot16-published.jpg" loading="lazy" alt="J案"><figcaption>J案</figcaption></figure><figure data-v="8"><img src="K/shot-published.jpg" loading="lazy" alt="K案"><figcaption>K案</figcaption></figure><figure data-v="16"><img src="K/shot16-published.jpg" loading="lazy" alt="K案"><figcaption>K案</figcaption></figure><figure data-v="8"><img src="L/shot-published.jpg" loading="lazy" alt="L案"><figcaption>L案</figcaption></figure><figure data-v="16"><img src="L/shot16-published.jpg" loading="lazy" alt="L案"><figcaption>L案</figcaption></figure><figure data-v="8"><img src="M/shot-published.jpg" loading="lazy" alt="M案"><figcaption>M案</figcaption></figure><figure data-v="16"><img src="M/shot16-published.jpg" loading="lazy" alt="M案"><figcaption>M案</figcaption></figure></div><h3>演出中のコマ（16人・左から各案、上から時間順）</h3><div class="g" style="grid-template-columns:repeat(4,1fr)"><figure data-v="all"><img src="J/f1.jpg" loading="lazy" alt="J案・コマ1"><figcaption>J案・コマ1</figcaption></figure><figure data-v="all"><img src="K/f1.jpg" loading="lazy" alt="K案・コマ1"><figcaption>K案・コマ1</figcaption></figure><figure data-v="all"><img src="L/f1.jpg" loading="lazy" alt="L案・コマ1"><figcaption>L案・コマ1</figcaption></figure><figure data-v="all"><img src="M/f1.jpg" loading="lazy" alt="M案・コマ1"><figcaption>M案・コマ1</figcaption></figure><figure data-v="all"><img src="J/f2.jpg" loading="lazy" alt="J案・コマ2"><figcaption>J案・コマ2</figcaption></figure><figure data-v="all"><img src="K/f2.jpg" loading="lazy" alt="K案・コマ2"><figcaption>K案・コマ2</figcaption></figure><figure data-v="all"><img src="L/f2.jpg" loading="lazy" alt="L案・コマ2"><figcaption>L案・コマ2</figcaption></figure><figure data-v="all"><img src="M/f2.jpg" loading="lazy" alt="M案・コマ2"><figcaption>M案・コマ2</figcaption></figure><figure data-v="all"><img src="J/f3.jpg" loading="lazy" alt="J案・コマ3"><figcaption>J案・コマ3</figcaption></figure><figure data-v="all"><img src="K/f3.jpg" loading="lazy" alt="K案・コマ3"><figcaption>K案・コマ3</figcaption></figure><figure data-v="all"><img src="L/f3.jpg" loading="lazy" alt="L案・コマ3"><figcaption>L案・コマ3</figcaption></figure><figure data-v="all"><img src="M/f3.jpg" loading="lazy" alt="M案・コマ3"><figcaption>M案・コマ3</figcaption></figure></div><div id="lb"><img alt=""></div><script>let v="8";function apply(){document.querySelectorAll("figure").forEach(f=>{f.style.display=(f.dataset.v==="all"||f.dataset.v===v)?"":"none"})}document.querySelectorAll("nav button").forEach(b=>b.onclick=()=>{document.querySelectorAll("nav button").forEach(x=>x.classList.remove("on"));b.classList.add("on");v=b.dataset.v;apply()});apply();const lb=document.getElementById("lb");lb.onclick=()=>lb.style.display="none";document.querySelectorAll("figure img").forEach(i=>i.onclick=()=>{lb.querySelector("img").src=i.src;lb.style.display="flex"});</script></body></html>
+<!doctype html><html lang="ja"><head><meta charset="utf-8"><meta name="robots" content="noindex,nofollow,noarchive"><meta name="viewport" content="width=device-width,initial-scale=1"><title>大会ダッシュボード 第3回</title><style>body{font:15px/1.6 system-ui,sans-serif;background:#16181d;color:#e7e9ee;margin:0;padding:20px}h1{font-size:22px;margin:0 0 6px}h2{font-size:20px;margin:26px 0 4px;border-top:1px solid #333;padding-top:14px}h3{font-size:16px;margin:14px 0 4px}nav{position:sticky;top:0;background:#16181dee;padding:8px 0;z-index:9}nav button{background:#2b3140;color:#e7e9ee;border:1px solid #445;border-radius:6px;padding:6px 12px;margin-right:6px;cursor:pointer}nav button.on{background:#4c7dff;border-color:#4c7dff}.m{color:#9aa3b5;font-size:13px}.g{display:grid;gap:8px}figure{margin:0}figure img{width:100%;border:1px solid #333;border-radius:4px;cursor:zoom-in}figcaption{font-size:13px;color:#9aa3b5}.na{border:1px dashed #444;border-radius:4px;padding:30px;text-align:center;color:#777}a{color:#8fb0ff}#lb{position:fixed;inset:0;background:#000d;display:none;align-items:center;justify-content:center;z-index:20}#lb img{max-width:98vw;max-height:96vh}</style></head><body><h1>大会ダッシュボード 第3回（統合見本＋マッチング演出）</h1><div class="m"><a href="../">第1回（A〜E）</a> ・ <a href="../r2/">第2回（F〜I）</a> ／ 画像はクリックで拡大。演出は「動く見本」で実際に動かして見てください。</div><nav><span class="m">人数: </span><button class="on" data-v="8">8人</button><button data-v="16">16人</button></nav><h2>統合見本（ラウンド中・事後コスト抽選・事後コスト発表）</h2><div class="m">決まった組み合わせ（ラウンド中＝H案の上部・タイマー・対戦卓＋I案の順位表／事後コスト抽選＝H案の見た目・スロット→上から順に確定する演出／事後コスト発表＝F案の配置にH案の色）を1つにまとめたもの。 <a href="integrated/index.html?state=round" target="_blank">動く見本: ラウンド中</a> ・ <a href="integrated/index.html?state=draw&players=16" target="_blank">事後コスト抽選（16人・演出あり）</a> ・ <a href="integrated/index.html?state=announce&players=16" target="_blank">事後コスト発表</a></div><div class="g" style="grid-template-columns:repeat(3,1fr)"><figure data-v="8"><img src="integrated/shot-round.jpg" loading="lazy" alt="ラウンド中・8人"><figcaption>ラウンド中・8人</figcaption></figure><figure data-v="16"><img src="integrated/shot16-round.jpg" loading="lazy" alt="ラウンド中・16人"><figcaption>ラウンド中・16人</figcaption></figure><figure data-v="8"><img src="integrated/shot-draw.jpg" loading="lazy" alt="事後コスト抽選（確定後）・8人"><figcaption>事後コスト抽選（確定後）・8人</figcaption></figure><figure data-v="16"><img src="integrated/shot16-draw.jpg" loading="lazy" alt="事後コスト抽選（確定後）・16人"><figcaption>事後コスト抽選（確定後）・16人</figcaption></figure><figure data-v="8"><img src="integrated/shot-announce.jpg" loading="lazy" alt="事後コスト発表・8人"><figcaption>事後コスト発表・8人</figcaption></figure><figure data-v="16"><img src="integrated/shot16-announce.jpg" loading="lazy" alt="事後コスト発表・16人"><figcaption>事後コスト発表・16人</figcaption></figure></div><h3>事後コスト抽選の演出（16人）</h3><div class="g" style="grid-template-columns:repeat(3,1fr)"><figure data-v="all"><img src="integrated/f1.jpg" loading="lazy" alt="回転中"><figcaption>回転中</figcaption></figure><figure data-v="all"><img src="integrated/f2.jpg" loading="lazy" alt="上から確定していく途中"><figcaption>上から確定していく途中</figcaption></figure><figure data-v="all"><img src="integrated/f3.jpg" loading="lazy" alt="全行確定"><figcaption>全行確定</figcaption></figure></div><h2>マッチング演出 J案の改良版（選定後）</h2><div class="m">J案の演出と色をもとに、L案の横並び・K案の卓番号の位置・L案のタイトル横のコストを取り入れ、「名前から卓を探す」欄と下書きの段階を外したもの。流れは ラウンド中→ラウンド終了→抽選前→抽選→組み合わせ決定（主催者が修正可・再戦は赤枠）→START。 <a href="final/index.html?players=16&state=round" target="_blank">動く見本（16人・ラウンド中から）</a> ・ <a href="final/index.html?players=8&state=before" target="_blank">動く見本（8人）</a></div><div class="g" style="grid-template-columns:repeat(3,1fr)"><figure data-v="8"><img src="final/shot-round.jpg" loading="lazy" alt="ラウンド中（ラウンド終了ボタン）・8人"><figcaption>ラウンド中（ラウンド終了ボタン）・8人</figcaption></figure><figure data-v="16"><img src="final/shot16-round.jpg" loading="lazy" alt="ラウンド中（ラウンド終了ボタン）・16人"><figcaption>ラウンド中（ラウンド終了ボタン）・16人</figcaption></figure><figure data-v="8"><img src="final/shot-before.jpg" loading="lazy" alt="抽選前・8人"><figcaption>抽選前・8人</figcaption></figure><figure data-v="16"><img src="final/shot16-before.jpg" loading="lazy" alt="抽選前・16人"><figcaption>抽選前・16人</figcaption></figure><figure data-v="8"><img src="final/shot-decided.jpg" loading="lazy" alt="組み合わせ決定・8人"><figcaption>組み合わせ決定・8人</figcaption></figure><figure data-v="16"><img src="final/shot16-decided.jpg" loading="lazy" alt="組み合わせ決定・16人"><figcaption>組み合わせ決定・16人</figcaption></figure><figure data-v="all"><img src="final/shot16-edit.jpg" loading="lazy" alt="組み合わせの修正（主催者用パネル）（16人）"><figcaption>組み合わせの修正（主催者用パネル）（16人）</figcaption></figure><figure data-v="all"><img src="final/shot16-rematch.jpg" loading="lazy" alt="修正で再戦になった卓は赤枠（16人）"><figcaption>修正で再戦になった卓は赤枠（16人）</figcaption></figure><figure data-v="all"><img src="final/f1.jpg" loading="lazy" alt="演出中のコマ1（16人）"><figcaption>演出中のコマ1（16人）</figcaption></figure><figure data-v="all"><img src="final/f2.jpg" loading="lazy" alt="演出中のコマ2（16人）"><figcaption>演出中のコマ2（16人）</figcaption></figure><figure data-v="all"><img src="final/f3.jpg" loading="lazy" alt="演出中のコマ3（16人）"><figcaption>演出中のコマ3（16人）</figcaption></figure></div><h2>マッチング演出コンペ（J〜M）</h2><div class="m">順位表の代わりに、卓ごとの組み合わせを抽選する専用画面。名前・ここまでの成績・デッキの状態（使用済み・使用可・未公開）を見せ、START でラウンド中の画面へ移る。場面ごとに各案を横に並べています。</div><div class="m">動く見本: <a href="J/index.html?players=16&state=before" target="_blank">J案</a> ・ <a href="K/index.html?players=16&state=before" target="_blank">K案</a> ・ <a href="L/index.html?players=16&state=before" target="_blank">L案</a> ・ <a href="M/index.html?players=16&state=before" target="_blank">M案</a>（抽選ボタンから演出→再抽選→公開→START まで操作できます）</div><h3>抽選前</h3><div class="g" style="grid-template-columns:repeat(4,1fr)"><figure data-v="8"><img src="J/shot-before.jpg" loading="lazy" alt="J案"><figcaption>J案</figcaption></figure><figure data-v="16"><img src="J/shot16-before.jpg" loading="lazy" alt="J案"><figcaption>J案</figcaption></figure><figure data-v="8"><img src="K/shot-before.jpg" loading="lazy" alt="K案"><figcaption>K案</figcaption></figure><figure data-v="16"><img src="K/shot16-before.jpg" loading="lazy" alt="K案"><figcaption>K案</figcaption></figure><figure data-v="8"><img src="L/shot-before.jpg" loading="lazy" alt="L案"><figcaption>L案</figcaption></figure><figure data-v="16"><img src="L/shot16-before.jpg" loading="lazy" alt="L案"><figcaption>L案</figcaption></figure><figure data-v="8"><img src="M/shot-before.jpg" loading="lazy" alt="M案"><figcaption>M案</figcaption></figure><figure data-v="16"><img src="M/shot16-before.jpg" loading="lazy" alt="M案"><figcaption>M案</figcaption></figure></div><h3>下書き（抽選後）</h3><div class="g" style="grid-template-columns:repeat(4,1fr)"><figure data-v="8"><img src="J/shot-drafted.jpg" loading="lazy" alt="J案"><figcaption>J案</figcaption></figure><figure data-v="16"><img src="J/shot16-drafted.jpg" loading="lazy" alt="J案"><figcaption>J案</figcaption></figure><figure data-v="8"><img src="K/shot-drafted.jpg" loading="lazy" alt="K案"><figcaption>K案</figcaption></figure><figure data-v="16"><img src="K/shot16-drafted.jpg" loading="lazy" alt="K案"><figcaption>K案</figcaption></figure><figure data-v="8"><img src="L/shot-drafted.jpg" loading="lazy" alt="L案"><figcaption>L案</figcaption></figure><figure data-v="16"><img src="L/shot16-drafted.jpg" loading="lazy" alt="L案"><figcaption>L案</figcaption></figure><figure data-v="8"><img src="M/shot-drafted.jpg" loading="lazy" alt="M案"><figcaption>M案</figcaption></figure><figure data-v="16"><img src="M/shot16-drafted.jpg" loading="lazy" alt="M案"><figcaption>M案</figcaption></figure></div><h3>公開</h3><div class="g" style="grid-template-columns:repeat(4,1fr)"><figure data-v="8"><img src="J/shot-published.jpg" loading="lazy" alt="J案"><figcaption>J案</figcaption></figure><figure data-v="16"><img src="J/shot16-published.jpg" loading="lazy" alt="J案"><figcaption>J案</figcaption></figure><figure data-v="8"><img src="K/shot-published.jpg" loading="lazy" alt="K案"><figcaption>K案</figcaption></figure><figure data-v="16"><img src="K/shot16-published.jpg" loading="lazy" alt="K案"><figcaption>K案</figcaption></figure><figure data-v="8"><img src="L/shot-published.jpg" loading="lazy" alt="L案"><figcaption>L案</figcaption></figure><figure data-v="16"><img src="L/shot16-published.jpg" loading="lazy" alt="L案"><figcaption>L案</figcaption></figure><figure data-v="8"><img src="M/shot-published.jpg" loading="lazy" alt="M案"><figcaption>M案</figcaption></figure><figure data-v="16"><img src="M/shot16-published.jpg" loading="lazy" alt="M案"><figcaption>M案</figcaption></figure></div><h3>演出中のコマ（16人・左から各案、上から時間順）</h3><div class="g" style="grid-template-columns:repeat(4,1fr)"><figure data-v="all"><img src="J/f1.jpg" loading="lazy" alt="J案・コマ1"><figcaption>J案・コマ1</figcaption></figure><figure data-v="all"><img src="K/f1.jpg" loading="lazy" alt="K案・コマ1"><figcaption>K案・コマ1</figcaption></figure><figure data-v="all"><img src="L/f1.jpg" loading="lazy" alt="L案・コマ1"><figcaption>L案・コマ1</figcaption></figure><figure data-v="all"><img src="M/f1.jpg" loading="lazy" alt="M案・コマ1"><figcaption>M案・コマ1</figcaption></figure><figure data-v="all"><img src="J/f2.jpg" loading="lazy" alt="J案・コマ2"><figcaption>J案・コマ2</figcaption></figure><figure data-v="all"><img src="K/f2.jpg" loading="lazy" alt="K案・コマ2"><figcaption>K案・コマ2</figcaption></figure><figure data-v="all"><img src="L/f2.jpg" loading="lazy" alt="L案・コマ2"><figcaption>L案・コマ2</figcaption></figure><figure data-v="all"><img src="M/f2.jpg" loading="lazy" alt="M案・コマ2"><figcaption>M案・コマ2</figcaption></figure><figure data-v="all"><img src="J/f3.jpg" loading="lazy" alt="J案・コマ3"><figcaption>J案・コマ3</figcaption></figure><figure data-v="all"><img src="K/f3.jpg" loading="lazy" alt="K案・コマ3"><figcaption>K案・コマ3</figcaption></figure><figure data-v="all"><img src="L/f3.jpg" loading="lazy" alt="L案・コマ3"><figcaption>L案・コマ3</figcaption></figure><figure data-v="all"><img src="M/f3.jpg" loading="lazy" alt="M案・コマ3"><figcaption>M案・コマ3</figcaption></figure></div><div id="lb"><img alt=""></div><script>let v="8";function apply(){document.querySelectorAll("figure").forEach(f=>{f.style.display=(f.dataset.v==="all"||f.dataset.v===v)?"":"none"})}document.querySelectorAll("nav button").forEach(b=>b.onclick=()=>{document.querySelectorAll("nav button").forEach(x=>x.classList.remove("on"));b.classList.add("on");v=b.dataset.v;apply()});apply();const lb=document.getElementById("lb");lb.onclick=()=>lb.style.display="none";document.querySelectorAll("figure img").forEach(i=>i.onclick=()=>{lb.querySelector("img").src=i.src;lb.style.display="flex"});</script></body></html>
